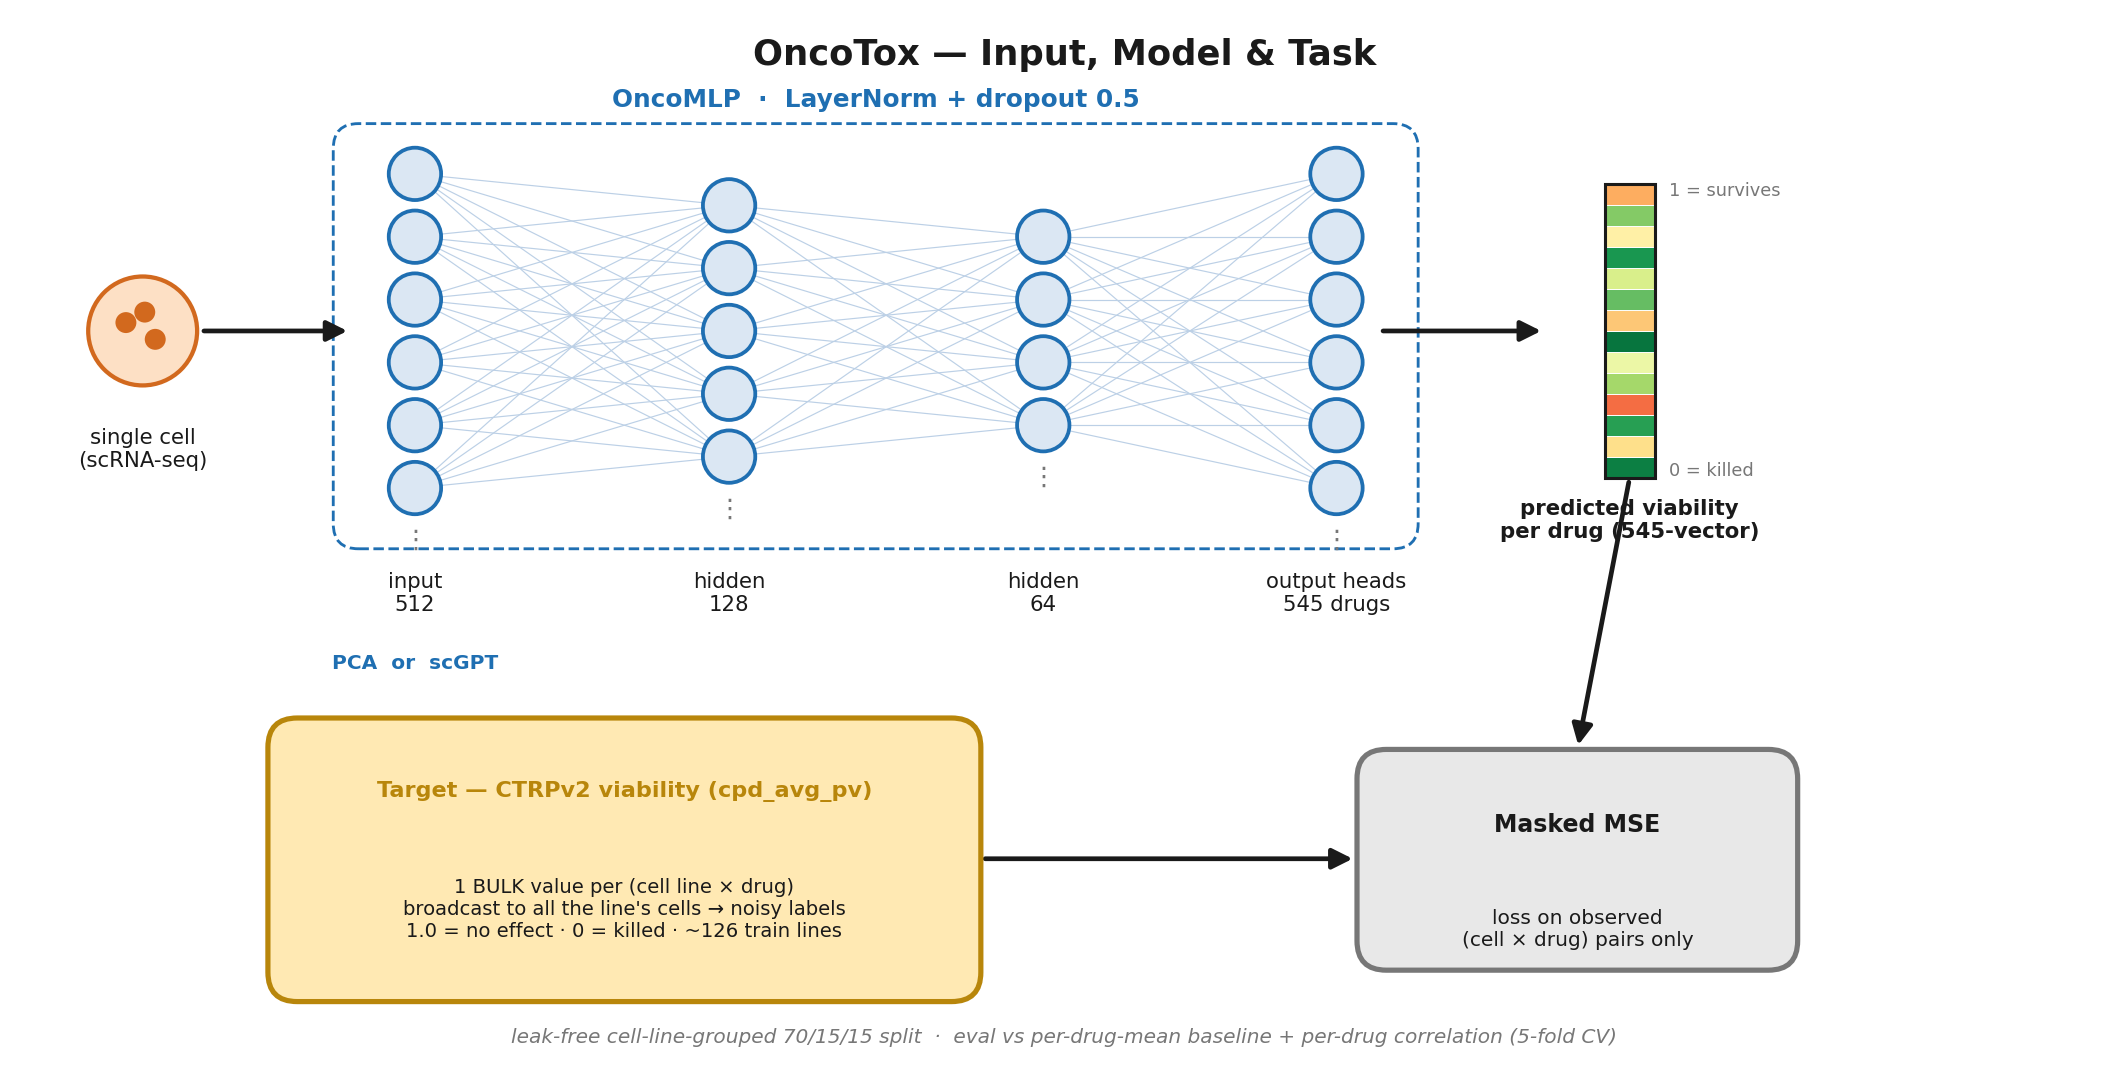
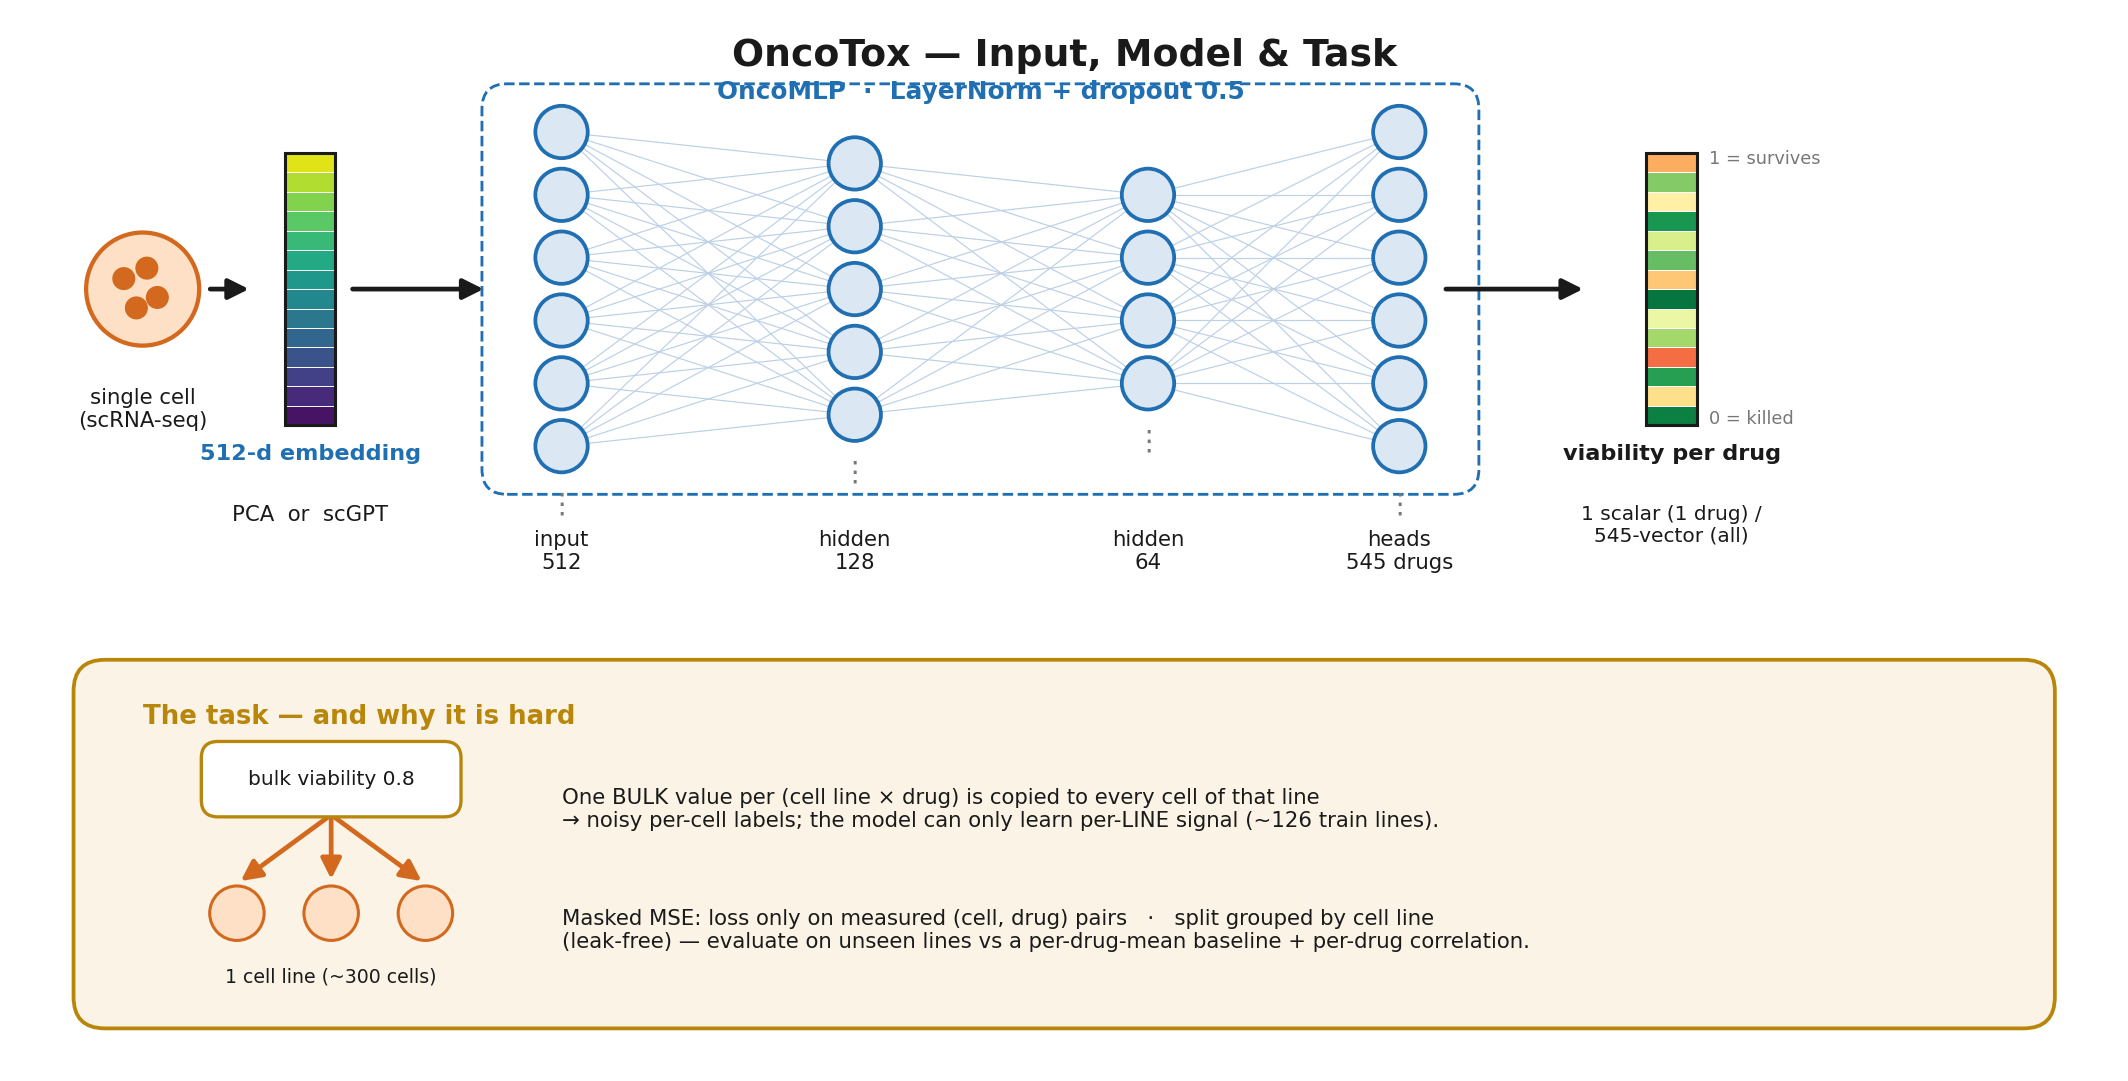
docs: restore original model_architecture.png (neurons + task panel)
Revert make_pipeline_overview.py's build_architecture to the version
from 3ea5592 (the preferred one): cell -> 512-d embedding strip ->
neuron MLP (512->128->64->545) -> viability strip, with the
"the task — and why it is hard" panel below.

diff --git a/docs/make_pipeline_overview.py b/docs/make_pipeline_overview.py
@@ -121,7 +121,7 @@ def build_pipeline():
 
 # ============================================================ 2) input + model + task
 def _heat_strip(ax, xc, y0, y1, vals, cmap, w=2.4):
-    """Vertical heatmap strip (the predicted 545-vector)."""
+    """Vertical heatmap strip (a 'vector') of len(vals) cells."""
     ys = np.linspace(y0, y1, len(vals) + 1)
     cm = plt.colormaps[cmap]
     for i, v in enumerate(vals):
@@ -132,24 +132,28 @@ def _heat_strip(ax, xc, y0, y1, vals, cmap, w=2.4):
 
 
 def build_architecture():
-    # equal aspect so the neurons are round
     fig, ax = plt.subplots(figsize=(16.0, 8.0))
     ax.set_xlim(0, 100); ax.set_ylim(0, 50); ax.set_aspect("equal"); ax.axis("off")
 
     ax.text(50, 49, "OncoTox — Input, Model & Task", ha="center", va="top",
-            fontsize=15, fontweight="bold", color=INK)
+            fontsize=16, fontweight="bold", color=INK)
 
-    # ---------- one cell feeds the input layer ----------
-    ax.add_patch(Circle((6, 35), 2.6, facecolor="#fde0c5", edgecolor="#d2691e", lw=1.8, zorder=3))
-    for dx, dy in [(-0.8, 0.4), (0.6, -0.4), (0.1, 0.9)]:
-        ax.add_patch(Circle((6 + dx, 35 + dy), 0.5, facecolor="#d2691e", lw=0, zorder=4))
-    ax.text(6, 30.4, "single cell\n(scRNA-seq)", ha="center", va="top", fontsize=9, color=INK)
-    arrow(ax, 8.7, 35, 16.0, 35, color=INK)
+    # ---------- INPUT: one cell -> embedding vector ----------
+    ax.add_patch(Circle((6, 37), 2.7, facecolor="#fde0c5", edgecolor="#d2691e", lw=1.8, zorder=3))
+    for dx, dy in [(-0.9, 0.5), (0.7, -0.4), (0.2, 1.0), (-0.3, -0.9)]:
+        ax.add_patch(Circle((6 + dx, 37 + dy), 0.55, facecolor="#d2691e", lw=0, zorder=4))
+    ax.text(6, 32.3, "single cell\n(scRNA-seq)", ha="center", va="top", fontsize=9, color=INK)
+    arrow(ax, 9, 37, 11.3, 37, color=INK)
 
-    # ---------- MLP drawn as neurons (size labelled under each layer) ----------
-    layers_x = [19, 34, 49, 63]
+    _heat_strip(ax, 14, 30.5, 43.5, np.linspace(0.05, 0.95, 14), "viridis")
+    ax.text(14, 29.6, "512-d embedding", ha="center", va="top", fontsize=9.5, fontweight="bold", color=BLUE)
+    ax.text(14, 26.7, "PCA  or  scGPT", ha="center", va="top", fontsize=9, color=INK)
+    arrow(ax, 15.8, 37, 22.5, 37, color=INK)
+
+    # ---------- MODEL: MLP drawn as neurons ----------
+    layers_x = [26, 40, 54, 66]
     counts = [6, 5, 4, 6]
-    cy, sp, r = 35, 3.0, 1.25
+    cy, sp, r = 37, 3.0, 1.25
     pos = [[(lx, cy + (i - (n - 1) / 2) * sp) for i in range(n)] for lx, n in zip(layers_x, counts)]
     for a, b in zip(pos[:-1], pos[1:]):
         for (x1, y1) in a:
@@ -159,41 +163,46 @@ def build_architecture():
         for (x, y) in layer:
             ax.add_patch(Circle((x, y), r, facecolor=BLUE_FILL, edgecolor=BLUE, lw=1.6, zorder=3))
     for lx, n in zip(layers_x, counts):
-        ax.text(lx, cy - (n / 2) * sp - 0.4, "⋮", ha="center", va="top", fontsize=11, color=GREY)
-    sizelabels = ["input\n512", "hidden\n128", "hidden\n64", "output heads\n545 drugs"]
-    for lx, t in zip(layers_x, sizelabels):
-        ax.text(lx, 23.5, t, ha="center", va="top", fontsize=9, color=INK)
-    ax.text(19, 19.6, "PCA  or  scGPT", ha="center", va="top", fontsize=8.5,
-            fontweight="bold", color=BLUE)
-    ax.text(41, 46.6, "OncoMLP  ·  LayerNorm + dropout 0.5", ha="center", va="top",
+        ax.text(lx, cy - (n / 2) * sp - 0.6, "⋮", ha="center", va="top", fontsize=12, color=GREY)
+    for lx, t in zip(layers_x, ["input\n512", "hidden\n128", "hidden\n64", "heads\n545 drugs"]):
+        ax.text(lx, 25.5, t, ha="center", va="top", fontsize=9, color=INK)
+    ax.text(46, 47.0, "OncoMLP  ·  LayerNorm + dropout 0.5", ha="center", va="top",
             fontsize=10.5, fontweight="bold", color=BLUE)
-    ax.add_patch(FancyBboxPatch((15.5, 25.0), 51.0, 19.5, boxstyle="round,pad=0.4,rounding_size=1.2",
+    ax.add_patch(FancyBboxPatch((22.5, 27.5), 47, 19, boxstyle="round,pad=0.3,rounding_size=1.2",
                  fill=False, edgecolor=BLUE, lw=1.2, linestyle="--", zorder=0))
-    arrow(ax, 65, 35, 73, 35, color=INK)
+    arrow(ax, 68, 37, 75, 37, color=INK)
 
-    # ---------- output: predicted viability per drug (a real 545-vector) ----------
+    # ---------- OUTPUT: predicted viability per drug ----------
     out_vals = np.array([0.95, 0.4, 0.88, 0.2, 0.7, 0.55, 0.97, 0.35, 0.8, 0.6, 0.9, 0.45, 0.75, 0.3])
-    _heat_strip(ax, 77, 28, 42, out_vals, "RdYlGn")
-    ax.text(78.9, 41.7, "1 = survives", ha="left", va="center", fontsize=7.5, color=GREY)
-    ax.text(78.9, 28.3, "0 = killed", ha="left", va="center", fontsize=7.5, color=GREY)
-    ax.text(77, 27.0, "predicted viability\nper drug (545-vector)", ha="center", va="top",
-            fontsize=9, fontweight="bold", color=INK)
+    _heat_strip(ax, 79, 30.5, 43.5, out_vals, "RdYlGn")
+    ax.text(80.8, 43.2, "1 = survives", ha="left", va="center", fontsize=7.5, color=GREY)
+    ax.text(80.8, 30.8, "0 = killed", ha="left", va="center", fontsize=7.5, color=GREY)
+    ax.text(79, 29.6, "viability per drug", ha="center", va="top", fontsize=9.5, fontweight="bold", color=INK)
+    ax.text(79, 26.7, "1 scalar (1 drug) /\n545-vector (all)", ha="center", va="top", fontsize=8.5, color=INK)
 
-    # ---------- target + loss as diagram nodes (info woven in, no prose box) ----------
-    box(ax, 12, 3.0, 34, 13.5, "Target — CTRPv2 viability (cpd_avg_pv)",
-        ["1 BULK value per (cell line × drug)", "broadcast to all the line's cells → noisy labels",
-         "1.0 = no effect · 0 = killed · ~126 train lines"],
-        AMBER, AMBER_FILL, title_color=AMBER, title_size=9.5, body_size=8.3)
-    box(ax, 64, 4.5, 21, 10.5, "Masked MSE",
-        ["loss on observed", "(cell × drug) pairs only"],
-        GREY, GREY_FILL, title_color=INK, title_size=10.0, body_size=8.5)
+    # ---------- TASK: why it's hard (bulk label broadcast) ----------
+    ax.add_patch(FancyBboxPatch((3, 2), 94, 17, boxstyle="round,pad=0.3,rounding_size=1.5",
+                 facecolor="#fbf4e6", edgecolor=AMBER, lw=1.6, zorder=0))
+    ax.text(6, 17.2, "The task — and why it is hard", ha="left", va="top",
+            fontsize=11, fontweight="bold", color=AMBER)
 
-    arrow(ax, 77, 28, 74.5, 15.0, color=INK)        # prediction ↓ into loss
-    arrow(ax, 46, 9.8, 64, 9.8, color=INK)          # target → loss
-
-    ax.text(50, 0.8,
-            "leak-free cell-line-grouped 70/15/15 split  ·  eval vs per-drug-mean baseline + per-drug "
-            "correlation (5-fold CV)", ha="center", va="bottom", fontsize=8.5, color=GREY, style="italic")
+    # bulk value broadcast to a line's cells
+    ax.add_patch(FancyBboxPatch((9, 12.0), 12, 3.2, boxstyle="round,pad=0.2,rounding_size=0.8",
+                 facecolor="white", edgecolor=AMBER, lw=1.4, zorder=3))
+    ax.text(15, 13.6, "bulk viability 0.8", ha="center", va="center", fontsize=8.5, color=INK)
+    cell_x = [10.5, 15, 19.5]
+    for cxp in cell_x:
+        ax.add_patch(Circle((cxp, 7.2), 1.3, facecolor="#fde0c5", edgecolor="#d2691e", lw=1.3, zorder=3))
+        arrow(ax, 15, 11.9, cxp, 8.6, color="#d2691e")
+    ax.text(15, 4.6, "1 cell line (~300 cells)", ha="center", va="top", fontsize=8, color=INK)
+    ax.text(26, 13.2,
+            "One BULK value per (cell line × drug) is copied to every cell of that line\n"
+            "→ noisy per-cell labels; the model can only learn per-LINE signal (~126 train lines).",
+            ha="left", va="top", fontsize=9, color=INK)
+    ax.text(26, 7.4,
+            "Masked MSE: loss only on measured (cell, drug) pairs   ·   split grouped by cell line\n"
+            "(leak-free) — evaluate on unseen lines vs a per-drug-mean baseline + per-drug correlation.",
+            ha="left", va="top", fontsize=9, color=INK)
 
     out = HERE / "model_architecture.png"
     fig.savefig(out, dpi=170, bbox_inches="tight", facecolor="white")